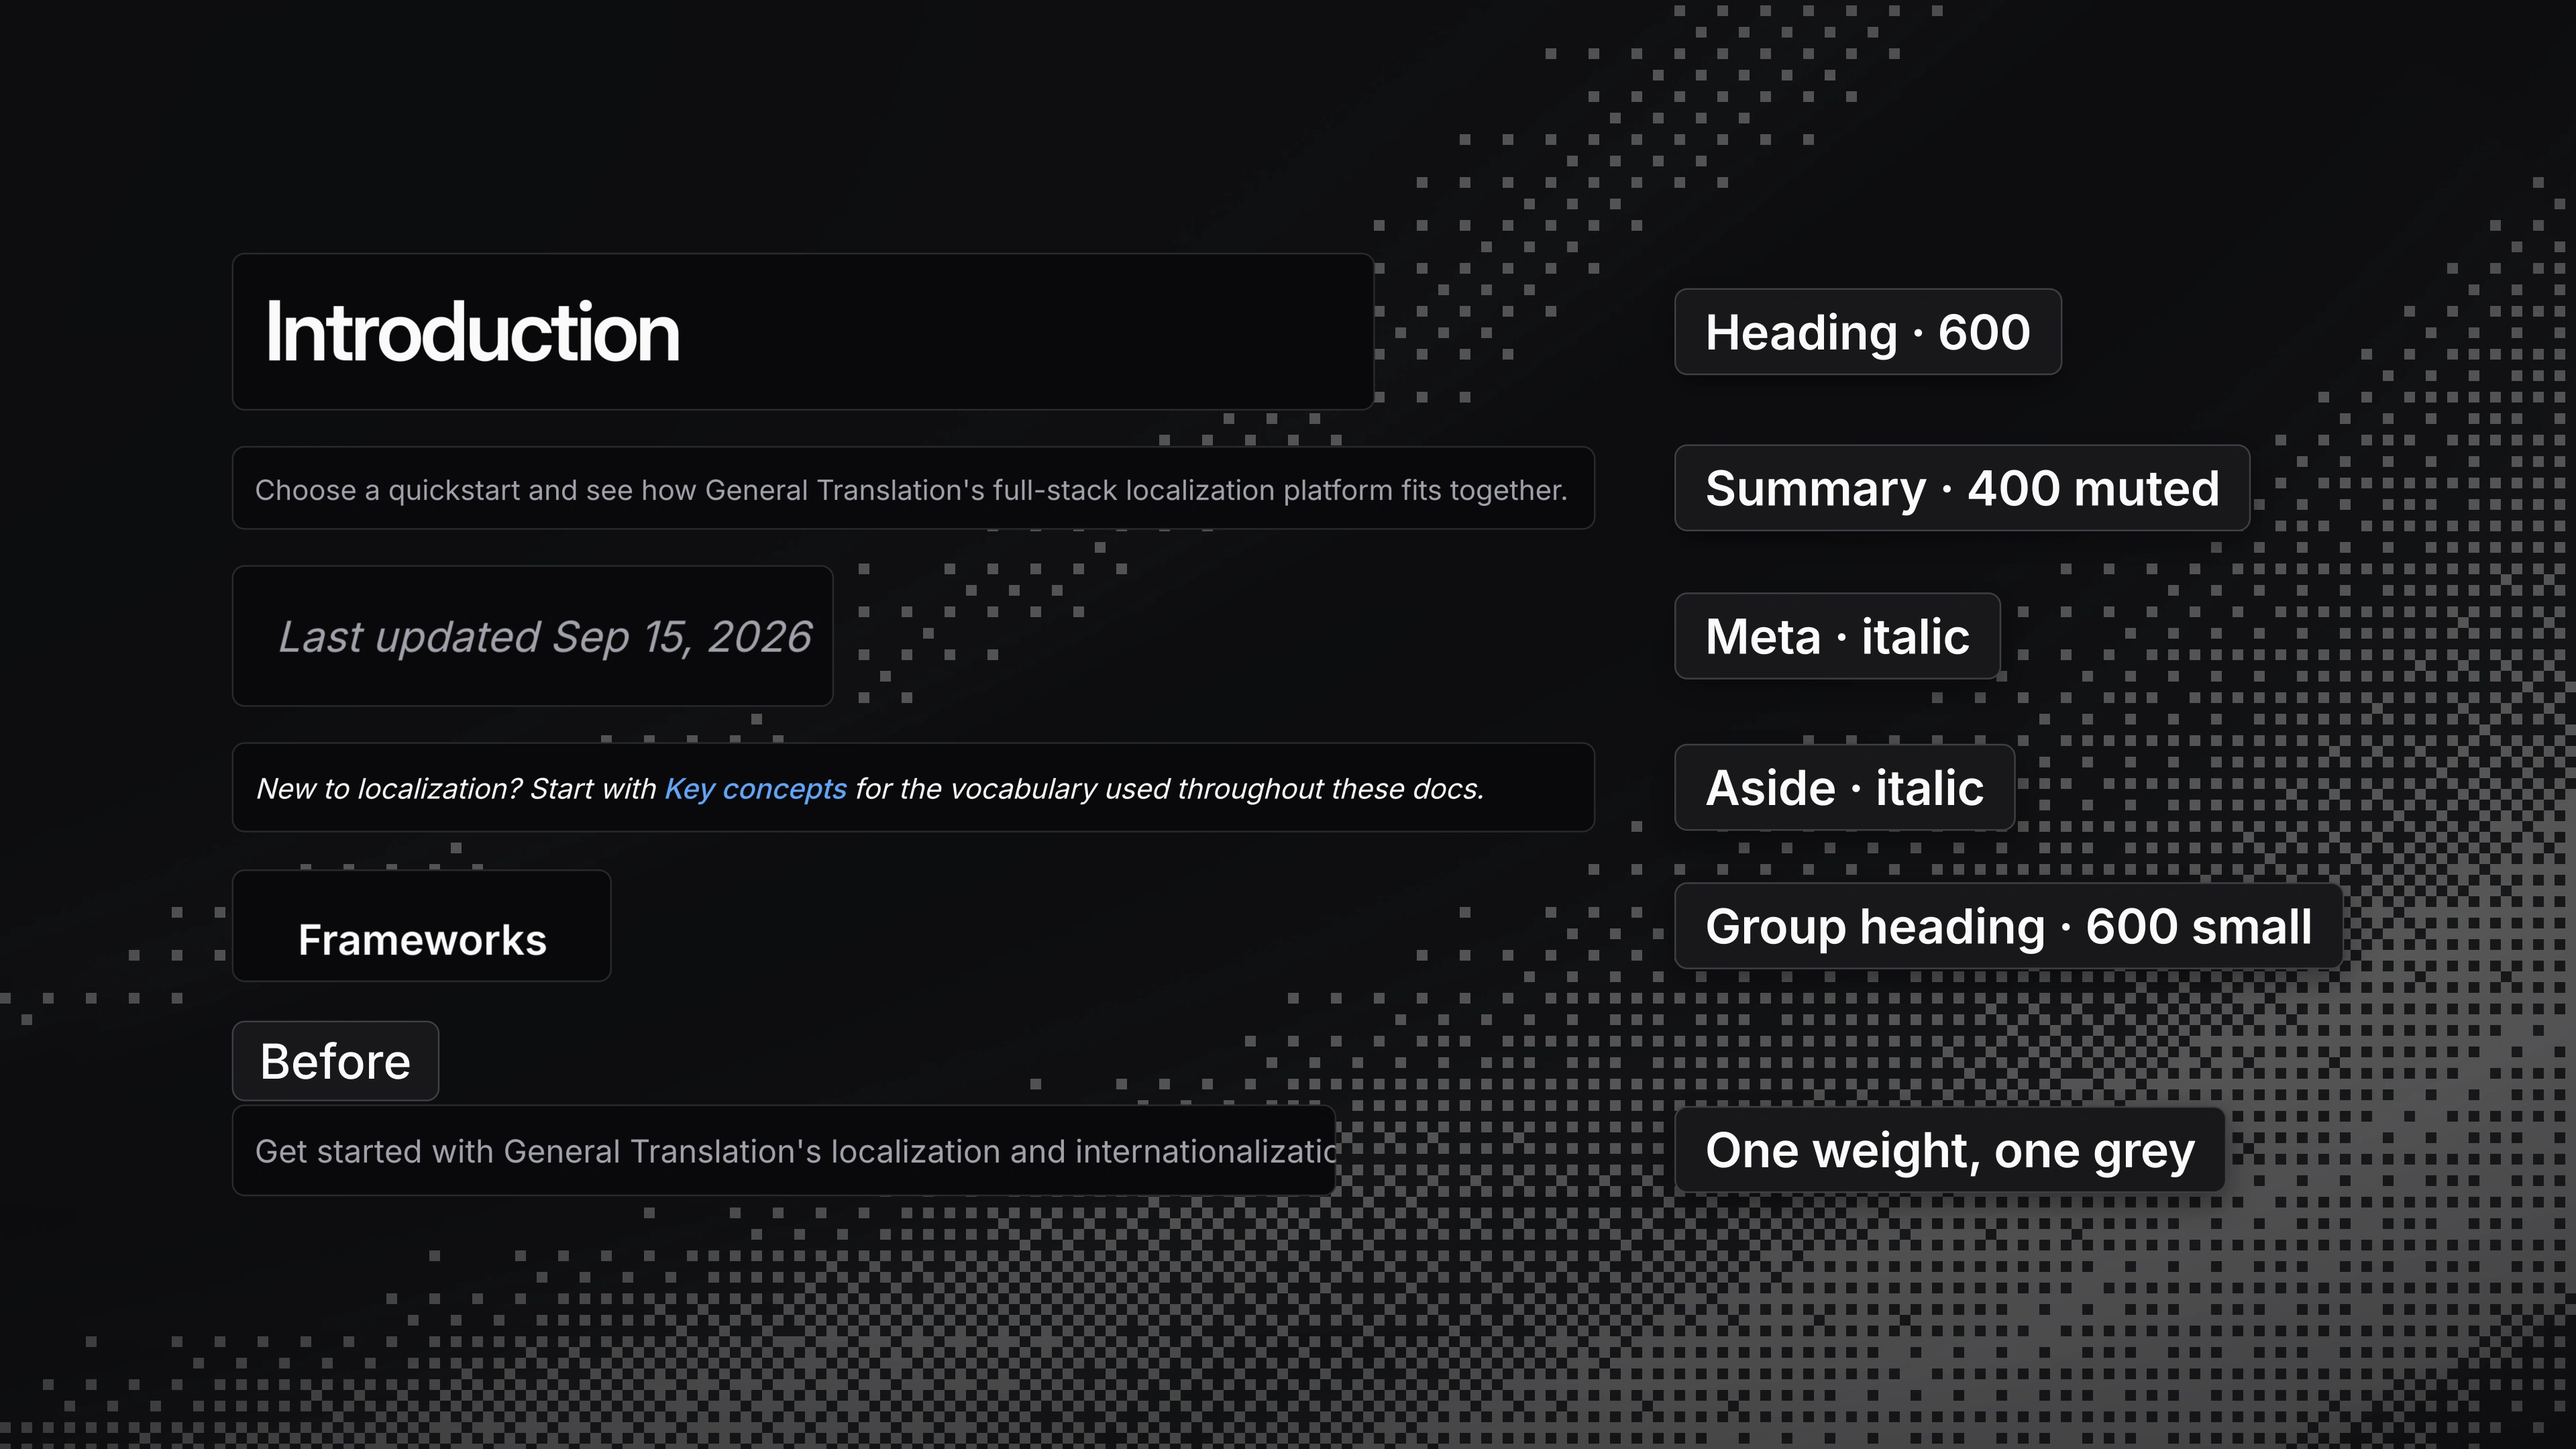
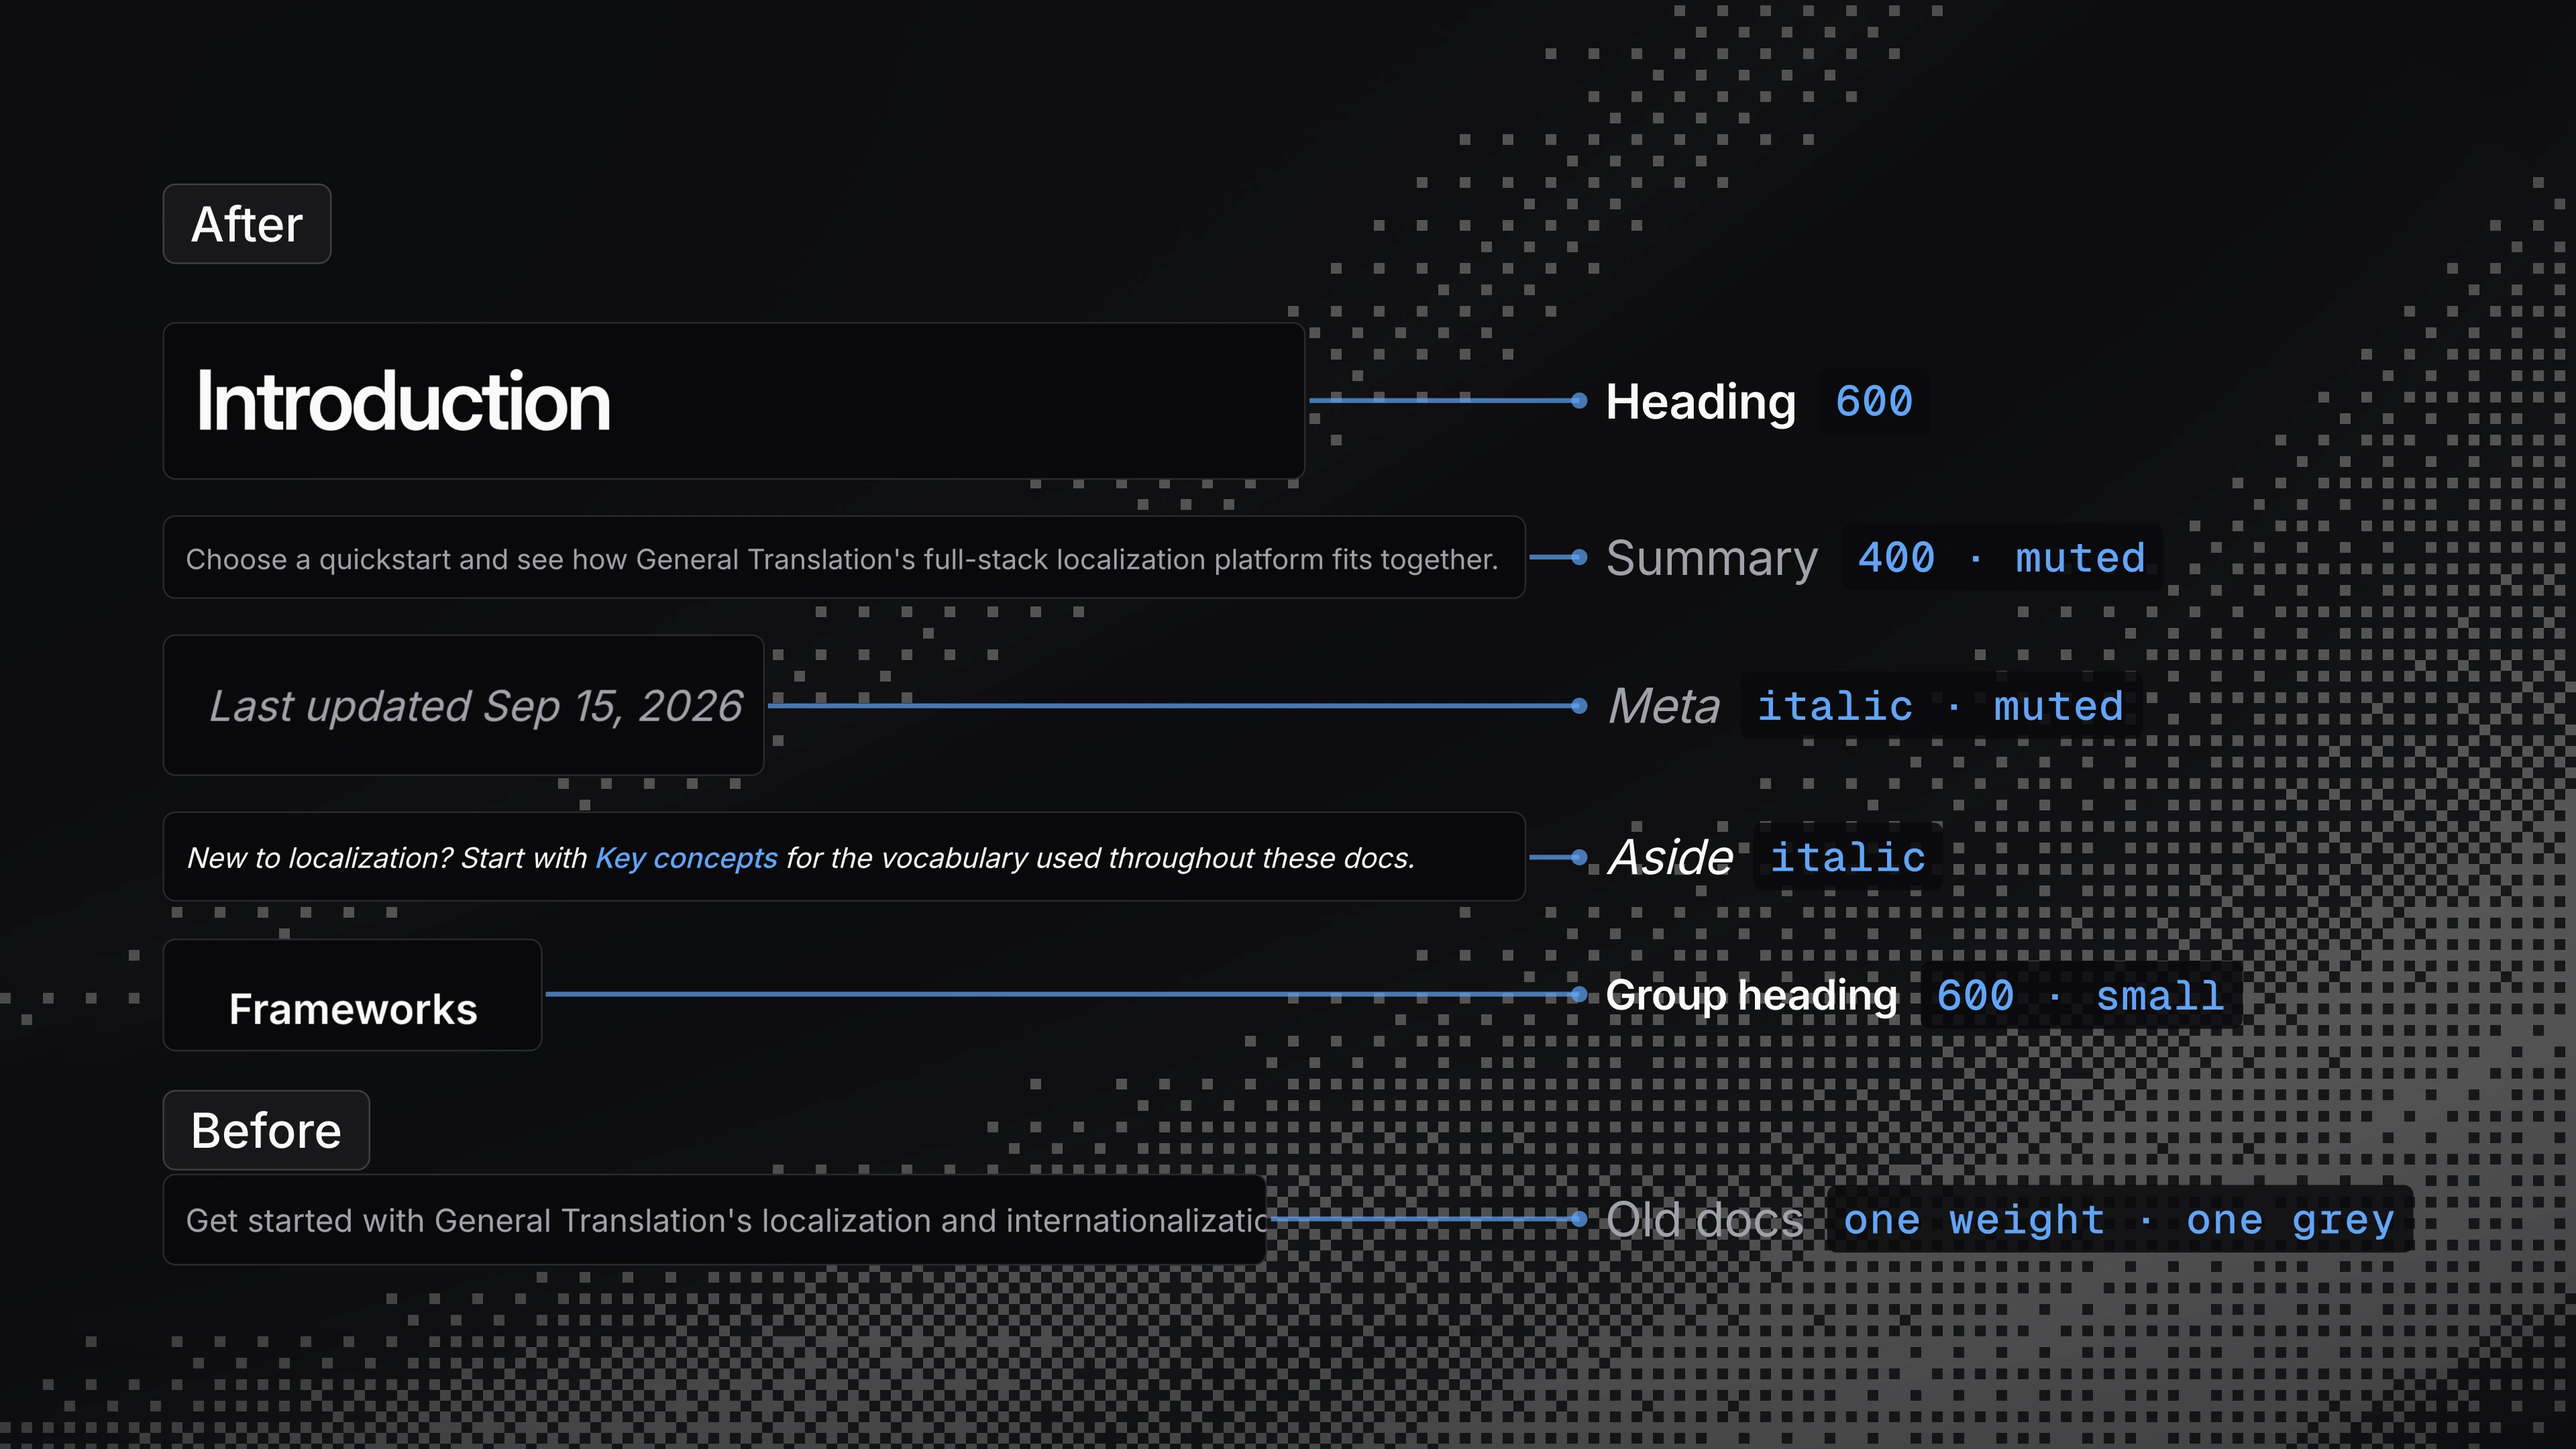
Type specimen: leaders to labels that show their own spec

Changed region(s): [[0.0625, 0.2171, 0.9375, 0.8685], [0.2188, 0.5273, 0.9062, 0.7134], [0.0625, 0.1241, 0.125, 0.1861]]

diff --git a/graphics/build/gen-visuals.js b/graphics/build/gen-visuals.js
@@ -246,14 +246,25 @@ add('C6-another-section', 'C', 'Another section', 'silk3', 'The same accordion i
 });
 
 // =============== AREA D ===============
-add('D1-type-specimen', 'D', 'Type specimen', 'silk5', 'Real type from the page at 110–220%, labelled by role.', () => {
+add('D1-type-specimen', 'D', 'Type specimen', 'silk5', 'Real type from the page at 110–220%, each sample tied by a leader to a label set in the weight and style it names, with the spec beside it in mono; the old docs’ one weight and one grey below for contrast.', () => {
   let h = '';
-  const rows = [[N.h1short, 1.6, 'Heading · 600'], [N.subtitle, 1.1, 'Summary · 400 muted'], [N.lastUpdated, 2.2, 'Meta · italic'], [N.italicNote, 1.1, 'Aside · italic'], [N.groupFw, 2, 'Group heading · 600 small', { b: 4 }]];
-  let y = 236; rows.forEach(([r, s, k, pd]) => { const hh = pd ? (r.h + PAD + (pd.b != null ? pd.b : PAD)) * s : PH(r, s); h += crop('newIntro', r, { x: 64, y, s, cls: 'flat', style: 'border-color:rgba(63,63,70,.6)', pad: pd }); h += tag(k, null, 960, y + hh / 2 - 27, 'dark'); y += hh + 22; });
-  h += badge(64, y + 2, 'Before'); h += crop('oldIntro', O.subtitleShort, { x: 64, y: y + 54, s: 1.1, cls: 'flat', style: 'border-color:rgba(63,63,70,.6)' }); h += tag('One weight, one grey', null, 960, y + 54 + PH(O.subtitleShort, 1.1) / 2 - 27, 'dark');
+  // a label: the role, set the way the page sets it, and its spec as a mono chip
+  const spec = (x, cy, role, css, chip) => `<div class="txt" style="left:${px(x)};top:${px(cy - 27)};display:flex;align-items:center;gap:14px;height:54px;white-space:nowrap"><span style="font:${css};letter-spacing:-.01em">${role}</span><span style="font:500 26px/1 'Geist Mono';letter-spacing:.03em;color:var(--blue2);padding:8px 10px;border-radius:6px;background:rgba(9,9,11,.85)">${chip}</span></div>`;
+  const LX = 960, lead = (x1, cy) => line(x1, cy, LX - 16, cy, { color: 'rgba(96,165,250,.7)', w: 3, end: true });
+  const rows = [
+    [N.h1short, 1.6, 'Heading', "600 30px 'Inter'", '600'],
+    [N.subtitle, 1.1, 'Summary', "400 30px 'Inter'", '400 · muted', 'var(--muted)'],
+    [N.lastUpdated, 2.2, 'Meta', "italic 400 30px 'Inter'", 'italic · muted', 'var(--muted)'],
+    [N.italicNote, 1.1, 'Aside', "italic 400 30px 'Inter'", 'italic'],
+    [N.groupFw, 2, 'Group heading', "600 26px 'Inter'", '600 · small', 'var(--text)', { b: 4 }],
+  ];
+  h += badge(64, 150, 'After');
+  let y = 236; rows.forEach(([r, s, role, css, chip, color, pd]) => { const hh = pd ? (r.h + PAD + (pd.b != null ? pd.b : PAD)) * s : PH(r, s); const cy = y + hh / 2;
+    h += crop('newIntro', r, { x: 64, y, s, cls: 'flat', style: 'border-color:rgba(63,63,70,.6)', pad: pd }); h += lead(64 + PW(r, s) + 2, cy); h += spec(LX, cy, role, `${css};color:${color || 'var(--text)'}`, chip); y += hh + 22; });
+  h += badge(64, y + 2, 'Before'); const by = y + 54, bh = PH(O.subtitleShort, 1.1), bcy = by + bh / 2;
+  h += crop('oldIntro', O.subtitleShort, { x: 64, y: by, s: 1.1, cls: 'flat', style: 'border-color:rgba(63,63,70,.6)' }); h += lead(64 + PW(O.subtitleShort, 1.1) + 2, bcy); h += spec(LX, bcy, 'Old docs', "400 30px 'Inter';color:var(--muted)", 'one weight · one grey');
   return h;
 });
-
 add('D2-alignment', 'D', 'Alignment', 'silk4', 'Top-aligned rows against the real centre-aligned switcher and footer rows.', () => {
   let h = '';
   h += panel(64, 150, 720, 600, plabel('x-circle', 'Top-aligned', true));
